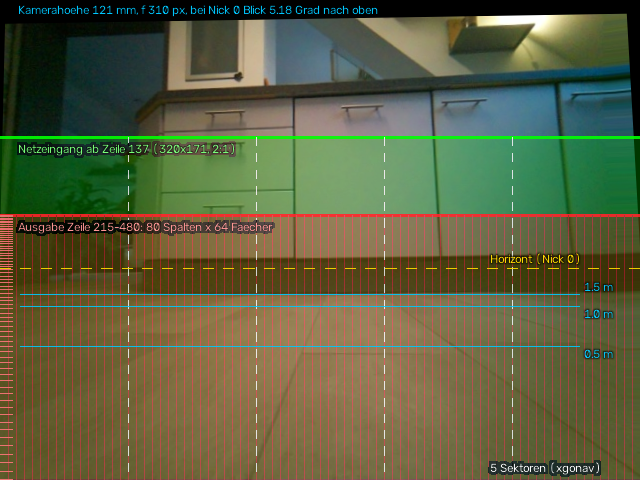
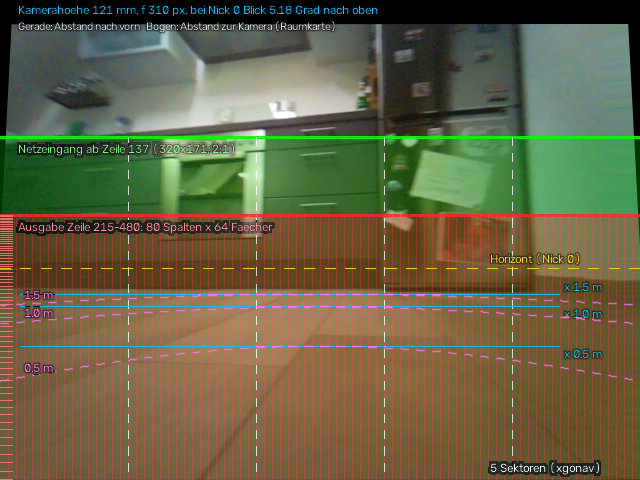
Raumkarte: Reichweite entlang des Strahls; Sichtfeld mit Abstandsbögen; Web-Kopfleiste schmal
- gridfast.cpp/gridmap.py: max_range_m und free_range_m gelten entlang der
  Peilung statt nach vorn (vorher am Bildrand bis ~1,44-fach weiter, 1,5 m
  -> ~2,16 m). Fehlerspanne bleibt beim Abstand nach vorn. ABI unverändert;
  am Rider gebaut, C++ und numpy bitgleich (Vergleichsskript), nicht gefahren.
- Tests: neuer test_gridmap_range_along_ray; Wand-Tests mit max_range_m 1,5.
- sichtfeld.py: Bögen gleichen Abstands zur Kamera neben den Geraden
  (Abstand nach vorn); Maske und zwei neue Beispielbilder (Küche
  20261122-202716, Wohnzimmer mit Teppich 20261123-130232).
- Web: Temporegler bricht bei Platzmangel selbst hinter das Bodenmodell um,
  Titel fällt weg, wenn erste Zeile oder Statuspillen umbrechen (im Browser
  gemessen); Laufzeit Infos einklappbar (Standard offen, localStorage).
- Doku und Anleitung nachgezogen.

diff --git a/web/anleitung/web-interface.html b/web/anleitung/web-interface.html
@@ -1614,7 +1614,7 @@
 </tr>
 <tr>
 <td>Fahren</td>
-<td>D-pad; speed 25/50/75/100 % in the mode bar after Approach; <em>Lage</em>: ⚖ Neu ausrichten (leveling pulse) next to the roll 0 button; <em>Extras</em> card (collapsed, open/closed in <code>localStorage</code> <code>xgonav.extras</code>): <strong>Anleitung</strong> (opens <code>anleitung/index.html</code>, static), <strong>Schaubild</strong> (opens <code>schaubild.html</code>, static, no cost on the Pi), <strong>ESP-Neustart</strong> (237, firmware patch 0018, only while not balancing), <strong>Herunterfahren</strong> (confirm dialog), actions 1–6, 4 LEDs + all off + strobe, brightness slider (persistent), display emotions</td>
+<td>D-pad; speed 25/50/75/100 % in the mode bar after Approach (too narrow: it moves behind the floor model instead of pushing that down; the header title hides when the first row or the status pills wrap, measured in the browser); <em>Lage</em>: ⚖ Neu ausrichten (leveling pulse) next to the roll 0 button; <em>Extras</em> card (collapsed, open/closed in <code>localStorage</code> <code>xgonav.extras</code>): <strong>Anleitung</strong> (opens <code>anleitung/index.html</code>, static), <strong>Schaubild</strong> (opens <code>schaubild.html</code>, static, no cost on the Pi), <strong>ESP-Neustart</strong> (237, firmware patch 0018, only while not balancing), <strong>Herunterfahren</strong> (confirm dialog), actions 1–6, 4 LEDs + all off + strobe, brightness slider (persistent), display emotions</td>
 </tr>
 <tr>
 <td>Raumkarte</td>

diff --git a/web/anleitung/floornet.html b/web/anleitung/floornet.html
@@ -1519,11 +1519,11 @@ While driving <code>pitch_dev</code> is typically −2 to −4°, so the horizon
 </tr>
 <tr>
 <td><code>img/floornet_maske_entfernung.png</code></td>
-<td>nominal (pitch 0, cruise height, camera 121 mm): horizon (row 268) and floor distances 0.5 / 1.0 / 1.5 m (rows 346 / 306 / 294)</td>
+<td>nominal (pitch 0, cruise height, camera 121 mm): horizon (row 268) and floor distances 0.5 / 1.0 / 1.5 m: straight lines = forward distance (rows 346 / 306 / 294), dashed arcs = distance from the camera along the bearing (1.44× the forward distance at the image edge; <code>grid.max_range_m</code> and <code>free_range_m</code> count this way since 2026-11-23)</td>
 </tr>
 <tr>
 <td><code>img/floornet_beispiel1.png</code>, <code>img/floornet_beispiel2.png</code></td>
-<td>both masks over a kitchen (tiles, pitch −2.2°, roll −1.0°) and an office (carpet, pitch −3.2°, roll +2.0°) frame, each rotated to pitch 0 / roll 0 first; black border = outside the original frame</td>
+<td>both masks over a kitchen (tiles, ride 20261122-202716 frame 029299, pitch −2.9°, roll 0.0°) and a living room (carpet, ride 20261123-130232 frame 004023, pitch −1.1°, roll +0.4°) frame, each rotated to pitch 0 / roll 0 first; black border = outside the original frame</td>
 </tr>
 </tbody>
 </table>

diff --git a/web/anleitung/mapping.html b/web/anleitung/mapping.html
@@ -1646,7 +1646,7 @@ Status JSON: <code>odom.src</code> = <code>räder</code> | <code>befehl</code>, 
 </tr>
 <tr>
 <td>Range</td>
-<td>hits 0.15–<code>max_range_m</code> 1.5 m (1.25 until 2026-11-14 and in the simulator), free rays to <code>free_range_m</code> 1.5 m (RiderPi 1.1 m from 2026-11-06 to 2026-11-14) (one image row at 2 m is ~40 cm; a step was seen as floor from &gt; 1 m on 2026-11-06, simulator with 1.1: floor known 0.43–0.83, occupied precision 0.84–0.92); "free to horizon" columns mark free up to 1.5 m only</td>
+<td>hits 0.15–<code>max_range_m</code> 1.5 m (1.25 until 2026-11-14 and in the simulator), free rays to <code>free_range_m</code> 1.5 m (RiderPi 1.1 m from 2026-11-06 to 2026-11-14) (one image row at 2 m is ~40 cm; a step was seen as floor from &gt; 1 m on 2026-11-06, simulator with 1.1: floor known 0.43–0.83, occupied precision 0.84–0.92); "free to horizon" columns mark free up to 1.5 m only; both limits are distances along the ray since 2026-11-23 (before: forward distance, so up to 1.44× farther at the image edge)</td>
 </tr>
 <tr>
 <td>Confirmation</td>

diff --git a/web/anleitung/guide/web.html b/web/anleitung/guide/web.html
@@ -1570,7 +1570,7 @@
 </tr>
 <tr>
 <td>Speed (Tempo)</td>
-<td>after Approach: 25 / 50 / 75 / 100 %, scales every drive and turn command of all modes until xgonav restarts</td>
+<td>after Approach (on narrow screens it wraps behind the floor model): 25 / 50 / 75 / 100 %, scales every drive and turn command of all modes until xgonav restarts</td>
 </tr>
 <tr>
 <td>Floor model (Bodenmodell)</td>
@@ -1578,7 +1578,7 @@
 </tr>
 <tr>
 <td>Runtime info (Laufzeit Infos)</td>
-<td>recording status, free space for recordings; status tiles (fps, loop time, FloorNet ms)</td>
+<td>collapsible (open by default, remembered in <code>localStorage</code> <code>xgonav.laufzeit</code>); recording status and free space stay visible in the header line; status tiles (fps, loop time, FloorNet ms)</td>
 </tr>
 </tbody>
 </table>

diff --git a/web/index.php b/web/index.php
@@ -160,6 +160,9 @@ details.hilfe p{margin:4px 0 0}
 .tempo-kopf label{color:var(--leise);font-size:13px}
 .tempo-kopf input{width:120px;margin:0}
 .tempo-kopf .w{font-variant-numeric:tabular-nums;text-align:right;font-size:13px;min-width:3.2em}
+/* zu schmal (kopfHoehe misst): Tempo bricht selbst um statt das Bodenmodell, Titel fällt weg */
+.kopf-zeile2.tempo-unten .tempo-kopf{order:5}
+header.ohne-titel h1{display:none}
 .bild-leiste .imu-bild.schlecht{color:#ff8a8d}
 .sprech-zeile{margin-top:8px;display:flex;align-items:center;gap:8px;flex-wrap:wrap;font-size:13px}
 .sprech-zeile label{color:var(--leise)}
@@ -391,11 +394,11 @@ details.extras[open]>summary{margin-bottom:8px}
           <button data-modus="approach" onclick="modus('approach')">Anfahren</button>
           <select id="ziel" title="Ziel für Folgen/Anfahren (aktive YOLO-Klassen)" aria-label="Ziel"><option value="person">person</option></select>
         </div>
-        <div class="tempo-kopf" title="Tempo aller Fahr- und Drehbefehle in allen Modi, bis zum Neustart von xgonav">
-          <label for="tempo">Tempo</label>
-          <input type="range" id="tempo" min="25" max="100" step="25" value="75">
-          <span class="w" id="tempo-w"></span>
-        </div>
+      </div>
+      <div class="tempo-kopf" id="tempo-kopf" title="Tempo aller Fahr- und Drehbefehle in allen Modi, bis zum Neustart von xgonav">
+        <label for="tempo">Tempo</label>
+        <input type="range" id="tempo" min="25" max="100" step="25" value="75">
+        <span class="w" id="tempo-w"></span>
       </div>
       <div class="fn-wahl">
         <label for="fn-wahl">Bodenmodell</label>
@@ -494,12 +497,12 @@ details.extras[open]>summary{margin-bottom:8px}
       <span class="leise" id="bild-text"></span>
     </div>
   </details>
-  <div class="karte">
-    <div class="kopf"><h2>Laufzeit Infos</h2><span class="leise" id="rec-text"></span>
+  <details class="karte extras" id="laufzeit" ontoggle="laufzeitUmschalten()">
+    <summary><h2>Laufzeit Infos</h2><span class="leise" id="rec-text"></span>
       <span class="leise" id="rec-platz" hidden title="Frei am Rider bis zur Abbruchgrenze (output.record_min_free_mb); Minuten aus der Schreibrate der letzten Aufnahme (~ = geschätzt)"></span>
-</div>
+    </summary>
     <div class="kacheln" id="kurz"></div>
-  </div>
+  </details>
   <details class="karte extras" id="verlauf" ontoggle="verlaufUmschalten()">
     <summary><h2>Verlauf</h2><span class="leise">CPU · WLAN · Akku</span></summary>
     <div class="unter">CPU je Kern (bezogen auf Höchsttakt), letzte 10 min <span class="rechts" id="v-temp"></span></div>
@@ -1341,7 +1344,19 @@ function poseBestaetigen(aktion) {
 function pipelineUmschalten() { return befehl('pipeline', {on: aktPipeline === 'läuft' ? 0 : 1}); }
 // Feste Kopfleiste: ihre Höhe (je nach Breite ein- oder mehrzeilig) als --kopf-h, damit nichts darunter verschwindet
 function kopfHoehe() {
-  document.documentElement.style.setProperty('--kopf-h', document.querySelector('header').offsetHeight + 'px');
+  const kopf = document.querySelector('header'), z2 = kopf.querySelector('.kopf-zeile2');
+  // erst ohne Ausweichen messen: bricht die erste Zeile um (STOPP tiefer als der Titel) oder brechen die
+  // Statuspillen um, fällt der Titel weg;
+  // landet das Bodenmodell unter den Modi, rutscht stattdessen das Tempo ans Ende
+  kopf.classList.remove('ohne-titel');
+  z2.classList.remove('tempo-unten');
+  const h1 = kopf.querySelector('h1');
+  const pillen = kopf.querySelector('.pillen'), pille = pillen.firstElementChild;
+  const titelWeg = $('stop').offsetTop > h1.offsetTop + 4 || pillen.offsetHeight > 1.6 * pille.offsetHeight;
+  const tempoUnten = $('fn-wahl').parentNode.offsetTop > kopf.querySelector('.modus').offsetTop + 4;
+  kopf.classList.toggle('ohne-titel', titelWeg);
+  z2.classList.toggle('tempo-unten', tempoUnten);
+  document.documentElement.style.setProperty('--kopf-h', kopf.offsetHeight + 'px');
 }
 if (window.ResizeObserver) new ResizeObserver(kopfHoehe).observe(document.querySelector('header'));
 kopfHoehe();
@@ -2951,6 +2966,9 @@ function verlaufUmschalten() {
   try { localStorage.setItem('xgonav.verlauf', $('verlauf').open ? '1' : '0'); } catch (e) {}
   if ($('verlauf').open) verlaufZeichnen();
 }
+function laufzeitUmschalten() {
+  try { localStorage.setItem('xgonav.laufzeit', $('laufzeit').open ? '1' : '0'); } catch (e) {}
+}
 function extrasUmschalten() {
   try { localStorage.setItem('xgonav.extras', $('extras').open ? '1' : '0'); } catch (e) {}
 }
@@ -3153,7 +3171,8 @@ try {
   if (localStorage.getItem('xgonav.lage') !== '0') $('lagekarte').open = true;   // Standard: offen
   if (localStorage.getItem('xgonav.extras') === '1') $('extras').open = true;
   if (localStorage.getItem('xgonav.radar') !== '0') $('radarkarte').open = true;   // Standard: offen
-} catch (e) { $('lagekarte').open = true; $('raumkarte').open = true; }
+  if (localStorage.getItem('xgonav.laufzeit') !== '0') $('laufzeit').open = true;   // Standard: offen
+} catch (e) { $('lagekarte').open = true; $('raumkarte').open = true; $('laufzeit').open = true; }
 liveVerbinden();
 lageStarten();
 </script>

diff --git a/tools/floornet/sichtfeld.py b/tools/floornet/sichtfeld.py
@@ -4,7 +4,8 @@ Eingangsbilder (entzerrt, wie sie ins Netz gehen). Nur am PC, am Rider läuft da
   grün: was ins Netz geht (Ausschnitt; die Helligkeitsnorm aus net.prep ist aus, train.py --norm 0, der C++-Kern kennt sie nicht)
   rot:  was das Netz ausgeben kann (80 Spalten, 64 Zeilenfächer; Skala links), dazu die 5 Sektoren von xgonav
 
-Zweite Lage (nominal, Nick 0): Horizont und Bodenentfernungen 0,5 / 1,0 / 1,5 m (1,5 = grid.max_range_m).
+Zweite Lage (nominal, Nick 0): Horizont und Bodenentfernungen 0,5 / 1,0 / 1,5 m (1,5 = grid.max_range_m), als
+Geraden (Abstand nach vorn = Bildzeile) und als Bögen (Abstand zur Kamera; so begrenzt die Raumkarte).
 
   python tools/floornet/sichtfeld.py                                   # docs/img/floornet_maske*.png neu
   python tools/floornet/sichtfeld.py --bild a.png --out vorschau.png   # beide Lagen über ein Bild legen
@@ -122,18 +123,38 @@ def maske(k: dict, sektoren: int) -> np.ndarray:
     return rgba
 
 
+def zeile_vorn(geo: CamGeometry, x: float) -> float:
+    """Bildzeile (Nick 0) eines Bodenpunkts x Meter vor dem Kamerafußpunkt."""
+    return H / 2 + geo.f * math.tan(math.atan2(geo.cam_h, x) + math.radians(geo.tilt_deg))
+
+
 def maske_entfernung(geo: CamGeometry, meter=(0.5, 1.0, 1.5)) -> np.ndarray:
-    """Zusatzlage bei Nick 0: Horizont und Bodenentfernungen ab Kamerafußpunkt."""
+    """Zusatzlage bei Nick 0: Horizont und Bodenentfernungen ab Kamerafußpunkt. Geraden = Abstand nach vorn
+    (eine Bildzeile), Bögen = Abstand zur Kamera entlang der Peilung (so rechnet die Raumkarte max_range_m)."""
     rgba = np.zeros((H, W, 4), np.uint8)
-    tilt = math.radians(geo.tilt_deg)
     hz = int(round(geo.horizon_row()))
     linie(rgba, (0, hz), (W - 1, hz), (255, 220, 0), 0.9, 1, strich=10)
     text(rgba, "Horizont (Nick 0)", W - 150, hz - 5, (255, 220, 0))
+    gerade, bogen = (0, 200, 255), (255, 120, 255)
     for d in meter:
-        y = int(round(H / 2 + geo.f * math.tan(math.atan2(geo.cam_h, d) + tilt)))
+        y = int(round(zeile_vorn(geo, d)))
         if 0 <= y < H:
-            linie(rgba, (20, y), (W - 61, y), (0, 200, 255), 0.9, 1)
-            text(rgba, "%.1f m" % d, W - 56, y + (-3 if d == max(meter) else 12), (0, 200, 255))
+            linie(rgba, (20, y), (W - 81, y), gerade, 0.9, 1)
+            text(rgba, "x %.1f m" % d, W - 76, y + (-3 if d == max(meter) else 12), gerade)
+        # Bogen: je Spalte Peilung phi, Abstand nach vorn d·cos(phi); gestrichelt (8 px an, 8 px aus)
+        us = np.arange(W)
+        xs = d * np.cos(geo.bearing(us + 0.5))
+        ys = np.array([zeile_vorn(geo, x) for x in xs])
+        m = np.zeros((H, W), np.uint8)
+        pts = np.stack([us, np.round(ys)], 1).astype(np.int32)
+        for i in range(0, W - 1, 16):
+            cv2.polylines(m, [pts[i:i + 9]], False, 255, 1, cv2.LINE_AA)
+        rgba[m > 0, :3] = bogen
+        rgba[m > 0, 3] = np.maximum(rgba[m > 0, 3], (m[m > 0] * 0.9).astype(np.uint8))
+        yb = int(round(ys[24]))
+        if 0 <= yb < H:
+            text(rgba, "%.1f m" % d, 24, yb - 4, bogen)
+    text(rgba, "Gerade: Abstand nach vorn   Bogen: Abstand zur Kamera (Raumkarte)", 18, 30, (230, 230, 230), 0.38)
     text(rgba, "Kamerahoehe %.0f mm, f %.0f px, bei Nick 0 Blick %.2f Grad %s" % (
         geo.cam_h * 1000, geo.f, abs(geo.tilt_deg), "nach oben" if geo.tilt_deg >= 0 else "nach unten"),
         18, 14, (0, 200, 255))

diff --git a/xgonav/gridmap.py b/xgonav/gridmap.py
@@ -7,7 +7,8 @@ der Ego-Motion – dieselben Größen wie für die Merkkarte. Ohne Korrektur (Ma
 driftet sie mit der Zeit.
 
 Jede Bildspalte des Bodenmodells wird ein Strahl: frei bis zur Bodengrenze, belegt an der
-Grenze (Log-Odds, begrenzt). Spalten "frei bis Horizont" setzen nur frei bis max_range,
+Grenze (Log-Odds, begrenzt). Reichweiten gelten entlang des Strahls (am Bildrand ist eine Zeile
+weiter weg als in der Mitte). Spalten "frei bis Horizont" setzen nur frei bis max_range,
 nicht messbare Bereiche (known_from) bleiben unbekannt. Für Fahrentscheidungen wird
 die Karte (noch) nicht benutzt, nur angezeigt.
 """
@@ -377,16 +378,18 @@ class GridMap:
             kd = self.geo.ground_dist_np((self.fh - kf * span) * sc, pitch_dev)
             start = np.where(kf >= 0.98, np.inf, np.maximum(start, np.nan_to_num(kd, nan=np.inf)))
         to_horizon = v >= 0.98
+        # ground_dist_np liefert den Abstand nach vorn (wie LocalMap: x = d, y = d*tan), die Strahlen
+        # brauchen die Länge entlang der Peilung; auch max_range_m und free_range_m gelten entlang der Peilung
+        ray = dist * rad
         with np.errstate(invalid="ignore"):
-            hit = ~to_horizon & np.isfinite(dist) & (dist <= cfg.max_range_m)
-            # Freistrahl endet vor der Grenze: die gemessene Grenze schwankt mit der Entfernung,
+            hit = ~to_horizon & np.isfinite(dist) & (ray <= cfg.max_range_m)
+            # Freistrahl endet vor der Grenze: die gemessene Grenze schwankt mit der Entfernung (nach vorn, ∝ d²),
             # sonst löscht jede etwas zu weite Messung die zuvor belegte Zelle
             free_r = cfg.free_range_m if cfg.free_range_m > 0 else cfg.max_range_m
             margin = max(self.res, cfg.free_margin_m) + cfg.free_margin_quad * dist * dist
-            free_len = np.where(to_horizon, free_r, np.where(np.isfinite(dist), np.minimum(dist - margin, free_r), np.nan))
-        # ground_dist_np liefert den Abstand nach vorn (wie LocalMap: x = d, y = d*tan),
-        # die Strahlen brauchen die Länge entlang der Peilung
-        dist, free_len, start = dist * rad, free_len * rad, start * rad
+            free_len = np.where(to_horizon, free_r,
+                                np.where(np.isfinite(dist), np.minimum((dist - margin) * rad, free_r), np.nan))
+        dist, start = ray, start * rad
         ok = np.isfinite(free_len) & (free_len > start)
         return idx, bear, dist, free_len, start, ok, hit
 

diff --git a/tests/test_units.py b/tests/test_units.py
@@ -1489,6 +1489,7 @@ def test_gridmap_wall_and_turn():
     from xgonav.geometry import CamGeometry
     from xgonav.gridmap import GridMap
     cfg = Config.neutral()
+    cfg.grid.max_range_m = 1.5                                  # entlang des Strahls: Wand 1 m am Rand ~1,44 m
     g = CamGeometry(640, 480, 91.0, 1.39, 43.0, 85.0)
     m = GridMap(cfg.grid, g, 160, 120)
     hz = g.horizon_row(0) / 4
@@ -1542,6 +1543,24 @@ def test_gridmap_range_hits_and_margin():
     r, c = np.nonzero(far.lo < -cfg.grid.l_show)
     xs = (c + 0.5 - far.n / 2) * far.res
     assert 1.3 < xs.max() < cfg.grid.free_range_m + 0.1         # frei nur bis free_range_m
+
+
+def test_gridmap_range_along_ray():
+    """max_range_m und free_range_m gelten entlang des Strahls: eine Bildzeile ist am Rand weiter weg als in der
+    Mitte (Peilung ~45°, Faktor ~1,4)."""
+    from xgonav.gridmap import GridMap
+    cfg = Config.neutral()
+    g = CamGeometry(640, 480, 91.0, 1.39, 43.0, 85.0)
+    m = GridMap(cfg.grid, g, 160, 120)
+    x = 0.9 * cfg.grid.max_range_m                              # Wand quer, 0,9 x Reichweite voraus
+    _, bear, dist, _, _, _, hit = m._rays(_wall_fs(g, x), 0.0)
+    mitte, rand = np.argmin(np.abs(bear)), np.argmax(np.abs(bear))
+    assert hit[mitte] and dist[mitte] <= cfg.grid.max_range_m
+    assert dist[rand] > cfg.grid.max_range_m and not hit[rand]   # vorher (Abstand nach vorn) ein Treffer
+    assert np.all(dist[hit] <= cfg.grid.max_range_m)
+    _, bear, _, free_len, _, ok, _ = m._rays(_wall_fs(g, 2.2), 0.0)
+    assert np.all(free_len[ok] <= cfg.grid.free_range_m + 1e-9)
+    assert free_len[np.argmin(np.abs(bear))] > cfg.grid.free_range_m - 0.05
 
 
 def test_localmap_origin_is_wheel_axle():

diff --git a/xgonav/config.py b/xgonav/config.py
@@ -442,7 +442,8 @@ class GridCfg:
     # (gerader Flur) kam bei 10,7 m an den Rand, fand voraus kein Ziel mehr und kehrte um. Kleinere
     # gespeicherte Karten werden mittig übernommen. 48 m = 960 x 960 Zellen, ~16 MB.
     size_m: float = 48.0
-    # Treffer nur bis hierhin: Kamera nur 12,8 cm hoch, eine Bildzeile sind bei 2 m schon ~40 cm.
+    # Treffer nur bis hierhin (Abstand entlang des Strahls, seit 2026-11-23; vorher nach vorn, am Bildrand also
+    # bis ~1,44-fach weiter): Kamera nur 12,8 cm hoch, eine Bildzeile sind bei 2 m schon ~40 cm.
     # 1,5 seit 2026-11-14 (Nutzer: Hindernisse schon aus 1,5 m eintragen); vorher und im Simulator 1,25
     max_range_m: float = 1.5
     min_range_m: float = 0.15          # davor sieht die Kamera den Boden nicht
@@ -469,7 +470,7 @@ class GridCfg:
     # aus der Nähe. 0,05: 1 m ±5 cm, 1,5 m ±11 cm, Wand dort schon aus der Ferne geschlossen; 0,08 ließ Stuhl- und
     # Tischbeine unter dem Tisch zusammenwachsen. 0 = eine Zelle (Simulator). Seit 2026-11-18, nicht gefahren.
     hit_band_quad: float = 0.05
-    # Freistrahlen bis hierhin (Treffer nur bis max_range_m); 0 = wie max_range_m. RiderPi 1,1 ab 2026-11-06 (eine
+    # Freistrahlen bis hierhin, entlang des Strahls (Treffer nur bis max_range_m); 0 = wie max_range_m. RiderPi 1,1 ab 2026-11-06 (eine
     # Stufe wurde aus > 1 m als Boden gesehen und bei 1,5 m als frei eingetragen), seit 2026-11-14 wieder 1,5
     # (Nutzer: offenen Boden so weit sehen wie Hindernisse; mit dem Bodennetz, nicht gefahren)
     free_range_m: float = 1.5

diff --git a/xgonav/native/gridfast.cpp b/xgonav/native/gridfast.cpp
@@ -55,12 +55,12 @@ XGO_API void grid_rays(const GridParams* p, const double* cols, const double* kf
             s = kf[k] >= 0.98 ? inf : std::max(s, kn);
         }
         const bool to_horizon = v >= 0.98;
-        hit[j] = !to_horizon && std::isfinite(d) && d <= p->max_range;
-        // Freistrahl endet vor der Grenze: die gemessene Grenze schwankt mit der Entfernung
-        const double margin = p->margin0 + p->margin_quad * d * d;
-        const double fl = to_horizon ? p->free_r : (std::isfinite(d) ? std::min(d - margin, p->free_r) : xgo::kNaN);
+        // d ist der Abstand nach vorn; Reichweiten (max_range, free_r) gelten entlang der Peilung
         dist[j] = d * rad[j];
-        free_len[j] = fl * rad[j];
+        hit[j] = !to_horizon && std::isfinite(d) && dist[j] <= p->max_range;
+        // Freistrahl endet vor der Grenze: die gemessene Grenze schwankt mit der Entfernung (nach vorn, ∝ d²)
+        const double margin = p->margin0 + p->margin_quad * d * d;
+        free_len[j] = to_horizon ? p->free_r : (std::isfinite(d) ? std::min((d - margin) * rad[j], p->free_r) : xgo::kNaN);
         start[j] = s * rad[j];
         ok[j] = std::isfinite(free_len[j]) && free_len[j] > start[j];
     }

diff --git a/tests/test_map_replay.py b/tests/test_map_replay.py
@@ -69,7 +69,9 @@ def test_wand_liegt_richtig_mit_pose_des_bildes():
 
 
 def test_alte_pose_beim_drehen_verschmiert_die_wand():
-    genau, alt = _karten(["genau:versatz=0,sperre=1000", "alt:versatz=-100,sperre=1000"])
+    # Reichweite 1,5 m entlang des Strahls: die Wand (1 m) reicht über die ganze Bildbreite (am Rand ~1,44 m)
+    genau, alt = _karten(["genau:versatz=0,sperre=1000,grid.max_range_m=1.5",
+                          "alt:versatz=-100,sperre=1000,grid.max_range_m=1.5"])
     a, b = _belegt(genau[1]), _belegt(alt[1])
     # 60 °/s × 100 ms = 6°: die Wand steht einmal links-, einmal rechtsherum verdreht in der Karte
     assert np.abs(b[:, 0] - 1.0).max() > np.abs(a[:, 0] - 1.0).max() + 0.03

diff --git a/tests/test_reloc.py b/tests/test_reloc.py
@@ -182,6 +182,7 @@ def test_reloc_scan_punkte_wie_karte():
     from xgonav.geometry import CamGeometry
     from xgonav.gridmap import GridMap
     cfg = Config.neutral()
+    cfg.grid.max_range_m = 1.5                                  # entlang des Strahls: Wand 1 m am Rand ~1,44 m
     g = CamGeometry(640, 480, 91.0, 1.39, 43.0, 85.0)
     m = GridMap(cfg.grid, g, 160, 120)
     hz = g.horizon_row(0) / 4
